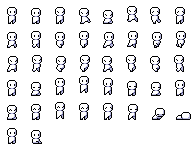
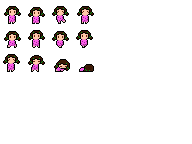
new player

diff --git a/Sweet-Dreams/Player.cs b/Sweet-Dreams/Player.cs
@@ -134,42 +134,42 @@ namespace Sweet_Dreams
 			speed = 2;
 			points = 0;
 			tint = Color.White;
-			stunTimer = 0.6;
+			stunTimer = 0.9;
 			reloadTimer = 1;
 			direction = Vector2.Zero;
 			timer = 0.0;
-			spf = 0.2;
+			spf = 0.3;
 			effectTimer = 1.0;
 
 			// Making animation lists
 			idleAnim = new List<Rectangle>(4);
-			idleAnim.Add(new Rectangle(7, 7, 10, 17));
-			idleAnim.Add(new Rectangle(7, 7, 10, 17));
-			idleAnim.Add(new Rectangle(31, 8, 10, 16));
-			idleAnim.Add(new Rectangle(31, 8, 10, 16));
+			idleAnim.Add(new Rectangle(4, 6, 17, 18));
+			idleAnim.Add(new Rectangle(4, 6, 17, 18));
+			idleAnim.Add(new Rectangle(28, 7, 17, 17));
+			idleAnim.Add(new Rectangle(28, 7, 17, 17));
 
 			walkingAnim = new List<Rectangle>(4);
-			walkingAnim.Add(new Rectangle(7, 32, 10, 16));
-			walkingAnim.Add(new Rectangle(31, 31, 10, 17));
-			walkingAnim.Add(new Rectangle(55, 32, 10, 16));
-			walkingAnim.Add(new Rectangle(79, 31, 10, 17));
+			walkingAnim.Add(new Rectangle(4, 31, 17, 17));
+			walkingAnim.Add(new Rectangle(28, 30, 17, 18));
+			walkingAnim.Add(new Rectangle(52, 31, 17, 17));
+			walkingAnim.Add(new Rectangle(76, 30, 17, 18));
 
 			damageAnim = new List<Rectangle>(4);
-			damageAnim.Add(new Rectangle(150, 7, 11, 17));
-			damageAnim.Add(new Rectangle(150, 7, 11, 17));
-			damageAnim.Add(new Rectangle(175, 7, 10, 17));
-			damageAnim.Add(new Rectangle(175, 7, 10, 17));
+			damageAnim.Add(new Rectangle(52, 6, 17, 18));
+			damageAnim.Add(new Rectangle(52, 6, 17, 18));
+			damageAnim.Add(new Rectangle(77, 6, 17, 18));
+			damageAnim.Add(new Rectangle(77, 6, 17, 18));
 
 			deathAnim = new List<Rectangle>(4);
-			deathAnim.Add(new Rectangle(103, 103, 10, 17));
-			deathAnim.Add(new Rectangle(128, 104, 10, 16));
-			deathAnim.Add(new Rectangle(152, 108, 13, 12));
-			deathAnim.Add(new Rectangle(176, 112, 15, 8));
+			deathAnim.Add(new Rectangle(3, 54, 17, 18));
+			deathAnim.Add(new Rectangle(28, 55, 17, 17));
+			deathAnim.Add(new Rectangle(54, 59, 16, 13));
+			deathAnim.Add(new Rectangle(79, 64, 15, 8));
 
 			animationWP = new Rectangle(worldPosition.X,
-								  worldPosition.Y + (currentFrame + 1) % 2,
-								  worldPosition.Width,
-								  walkingAnim[currentFrame].Height * 3);
+										worldPosition.Y + (currentFrame + 1) % 2,
+										walkingAnim[currentFrame].Width * 3 - 4,
+										walkingAnim[currentFrame].Height * 3);
 			currentAnim = 0;
 			prevAnim = currentAnim;
 		}
@@ -230,7 +230,7 @@ namespace Sweet_Dreams
 					}
 
 					animationWP.Y = worldPosition.Y + 10;
-					animationWP.Width = 39;
+					animationWP.Width = 48;
 					animationWP.Height = 36;
 				}
 				if (currentFrame == 3)
@@ -499,14 +499,14 @@ namespace Sweet_Dreams
 						prevPS == PlayerState.WalkRight)
 					{
 						sb.Draw(asset,
-						   worldPosition,
+						   animationWP,
 						   damageAnim[currentFrame],
 						   tint);
 					}
 					else
 					{
 						sb.Draw(asset,
-							worldPosition,
+							animationWP,
 							damageAnim[currentFrame],
 							tint,
 							0,

diff --git a/Sweet-Dreams/Game1.cs b/Sweet-Dreams/Game1.cs
@@ -103,7 +103,7 @@ namespace Sweet_Dreams
             // Initialize Camera
             camera = new OrthographicCamera(_graphics.GraphicsDevice.Viewport);
 
-            deathTimer = 0.6;
+            deathTimer = 0.98;
             mouse = Mouse.GetState();
 
             base.Initialize();
@@ -149,7 +149,7 @@ namespace Sweet_Dreams
 
             // Creates the player at its starting position
             player = new Player(playerAnimation, 
-                new Rectangle(screenWidth / 2 - 15, screenHeight / 2 - 27, 30, 51),
+                new Rectangle(screenWidth / 2 - 15, screenHeight / 2 - 27, 51, 54),
                 screenWidth, 
                 screenHeight);
 
@@ -210,7 +210,7 @@ namespace Sweet_Dreams
                         if (deathTimer <= 0)
                         {
                             gameState = GameState.Lose;
-                            deathTimer = 0.6;
+                            deathTimer = 0.98;
                         }
                         deathTimer -= gameTime.ElapsedGameTime.TotalSeconds;
                     }

diff --git a/Sweet-Dreams/obj/Debug/net6.0/Sweet-Dreams.AssemblyInfo.cs b/Sweet-Dreams/obj/Debug/net6.0/Sweet-Dreams.AssemblyInfo.cs
@@ -14,7 +14,7 @@ using System.Reflection;
 [assembly: System.Reflection.AssemblyCompanyAttribute("Sweet-Dreams")]
 [assembly: System.Reflection.AssemblyConfigurationAttribute("Debug")]
 [assembly: System.Reflection.AssemblyFileVersionAttribute("1.0.0.0")]
-[assembly: System.Reflection.AssemblyInformationalVersionAttribute("1.0.0+80b361a9f4490d3f6c1654bc96a1234a3aa69ead")]
+[assembly: System.Reflection.AssemblyInformationalVersionAttribute("1.0.0+2aec5d635946d3533051a88dee860121b85c53f3")]
 [assembly: System.Reflection.AssemblyProductAttribute("Sweet-Dreams")]
 [assembly: System.Reflection.AssemblyTitleAttribute("Sweet-Dreams")]
 [assembly: System.Reflection.AssemblyVersionAttribute("1.0.0.0")]
